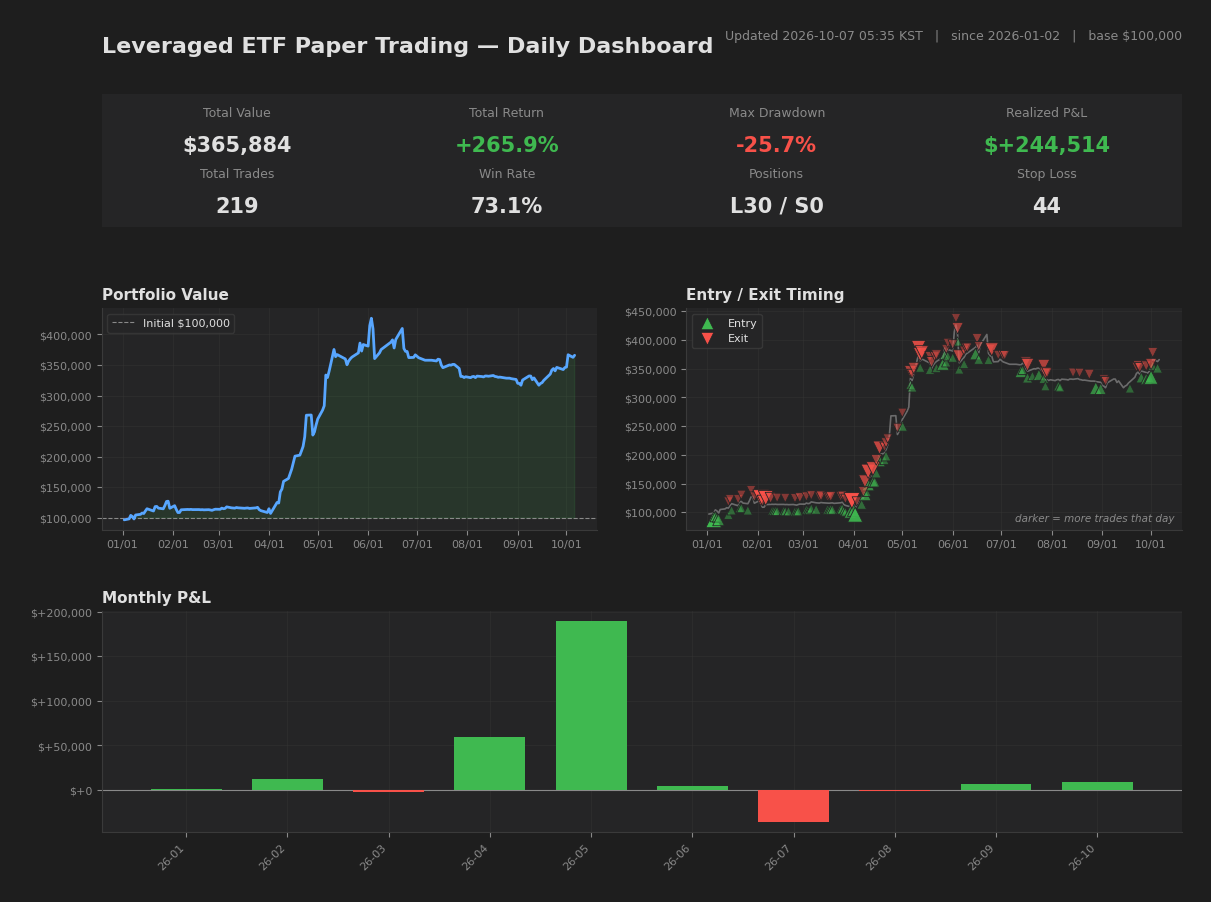
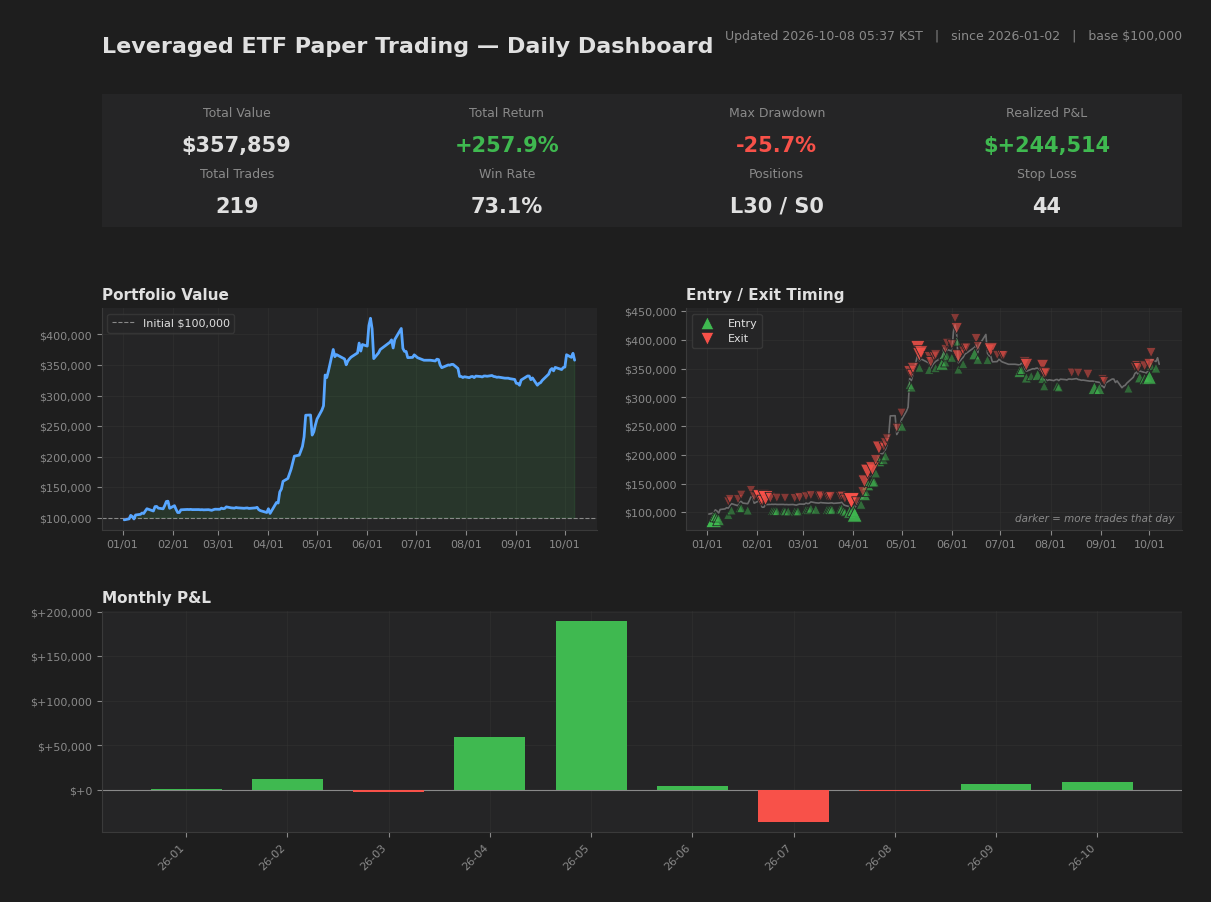
[2026-10-07] Close
Portfolio: $357,859 (+257.9%)
Positions: 30 (L30 S0)
Cumulative: 160/219 wins, P&L: $+244,514

diff --git a/README.md b/README.md
@@ -20,7 +20,7 @@ Drawdown control vs. benchmark. While the benchmark experienced a maximum drawdo
 
 <!-- METRICS:BEGIN (auto-generated by snapshot_backup.py after each market close; do not edit by hand) -->
 - Maximum drawdown: **-25.68%** (peak 2026-06-03 -> trough 2026-09-03, recovered since)
-- As of **2026-10-06** market close. Updated automatically after each close.
+- As of **2026-10-07** market close. Updated automatically after each close.
 <!-- METRICS:END -->
 
 Execution costs. Because the strategy holds positions over multi-day periods with low turnover, the impact of slippage and commissions is designed to be limited rather than a primary driver of results.
